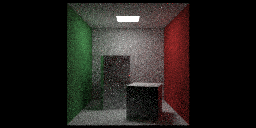
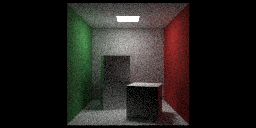
fixed random speckle bug by using unit_vector for direction

diff --git a/src/core/material.py b/src/core/material.py
@@ -58,7 +58,7 @@ class material(ABC):
 	returns whether we scatter, along with scattered spectra and attentuated spectra
 	'''
 	def scatter(r_in: ray, rec):
-		pass
+		return False,(0,0,0)
 	'''
 	base function so non-emissive materials don't emit anything
 	'''
@@ -74,14 +74,14 @@ class lambertian(material):
 	def scattering_pdf(self,r_in: ray,rec, scattered: ray):
 		cosine = rec.normal.dot(unit_vector(scattered.direction))
 		if cosine < 0:
-			cosine = 0
+			cosine = 0.0
 		return cosine/math.pi
 	# now returns True, (scattered,albedo and pdf)
 	def scatter(self,r_in: ray, rec):
 		target = rec.p + rec.normal + random_unit_sphere()
-		scattered = ray(rec.p,target - rec.p,r_in.time)
+		scattered = ray(rec.p,unit_vector(target-rec.p),r_in.time)
 		alb = self.albedo.value(rec.u,rec.v,rec.p)
-		pdf = rec.normal.dot(scattered.direction)/math.pi
+		pdf = (rec.normal.dot(scattered.direction))/math.pi
 		return True,(scattered,alb,pdf)
 
 class metal(material):

diff --git a/main.py b/main.py
@@ -81,7 +81,8 @@ def main(filename: str = 'output',output_res: tuple = (200,100),num_samples= 100
 if  __name__ == "__main__":
     #cProfile.runctx('main()',None,("random_spheres",(200,100),64))
     #main("./unit_tests/random_spheres_unit_test",(200,100),64)
-    main("./test",output_res = (256,128),num_samples = 1024)
+    #main("./test",output_res = (256,128),num_samples = 1024)
+    main("./test_bug",output_res = (256,128),num_samples = 1024)
     #main("./test",output_res = (800,800),num_samples = 2048)
     #main("./test",output_res = (500,500),num_samples = 256)
     # 00:00:43 1118.0 it/s
